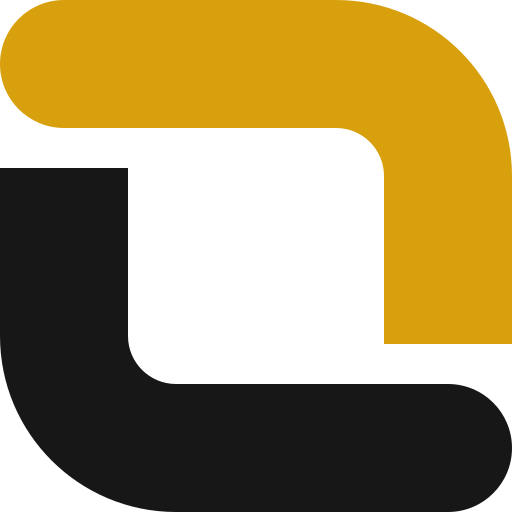
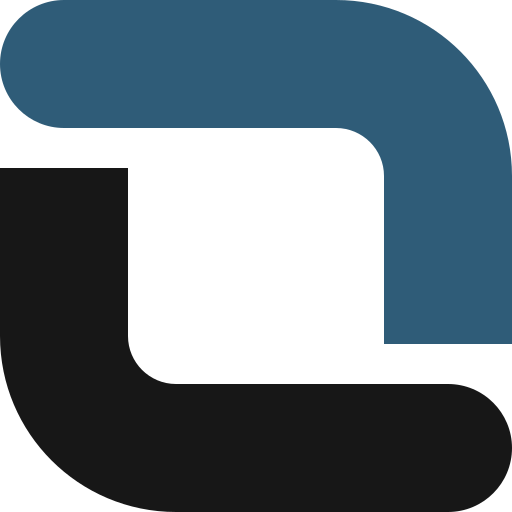
Move brand/ to the blue mark the dashboard uses
The dashboard went blue in ba6aa2aa, but brand/ kept the gold, so anything drawn from it (the mobile app's icon, for one) came out brown. The source now uses #2F5C78 on light backgrounds and #5AAEE5 on dark, and everything in logo/, icon/ and png/ is rebuilt from it. Only the colors move. With them masked out every SVG path is the same as before, and the one-color and name-only files don't change at all.

The logos, favicon.svg, icon-192, icon-512 and apple-touch-icon now match apps/dashboard byte for byte. favicon.ico is still the bare mark, now blue, where the dashboard's sits on a dark tile.

preview.png puts the white one-color logo on the blue card, since ink on #2F5C78 is hard to read, and the README's color table and wording follow. It also says to rebuild with Geist 1.7.2. Other versions outline the name a little differently, and you'd get a diff in every file with the name in it.

Checked by building the old gold source with Geist 1.7.2 first, which reproduces every committed file exactly, then rebuilding with blue.

diff --git a/brand/source/preview.py b/brand/source/preview.py
@@ -10,7 +10,7 @@ from mark import mark_paths, f, ink_points, to_d, scale_cmds, rotate_half  # noq
 from wordmark import set_word  # noqa: E402
 
 W, H = 1600, 1180
-INK, PAPER, WELD, WELD_D = build.INK, build.PAPER, build.WELD, build.WELD_ON_DARK
+INK, PAPER, BLUE, BLUE_D = build.INK, build.PAPER, build.BLUE, build.BLUE_ON_DARK
 MUTED = "#737373"
 LINE = "#E5E5E5"
 
@@ -32,29 +32,30 @@ def main(out_dir):
 
     # Hero: the horizontal logo.
     parts.append(f'<rect x="40" y="40" width="{W - 80}" height="380" rx="20" fill="#FFFFFF" stroke="{LINE}"/>')
-    vb, body, _ = build.horizontal(INK, WELD, INK)
+    vb, body, _ = build.horizontal(INK, BLUE, INK)
     el, h = place(vb, body, 0, 0, 760)
     parts.append(el.replace('x="0" y="0"', f'x="{f((W - 760) / 2)}" y="{f(230 - h / 2)}"'))
     parts.append(label("Primary logo", 72, 392))
 
-    # Row two: dark, gold, stacked.
+    # Row two: dark, blue, stacked.
     y2, h2 = 450, 300
     cw = (W - 80 - 40) / 3
     xs = [40 + i * (cw + 20) for i in range(3)]
     parts.append(f'<rect x="{f(xs[0])}" y="{y2}" width="{f(cw)}" height="{h2}" rx="20" fill="#0A0A0A"/>')
-    vb, body, _ = build.horizontal(PAPER, WELD_D, PAPER)
+    vb, body, _ = build.horizontal(PAPER, BLUE_D, PAPER)
     el, h = place(vb, body, xs[0] + (cw - 380) / 2, y2 + h2 / 2 - 30, 380)
     parts.append(el)
     parts.append(label("On dark", xs[0] + 32, y2 + h2 - 28, fill="#A3A3A3"))
 
-    parts.append(f'<rect x="{f(xs[1])}" y="{y2}" width="{f(cw)}" height="{h2}" rx="20" fill="{WELD}"/>')
-    vb, body, _ = build.horizontal(INK, INK, INK)
+    parts.append(f'<rect x="{f(xs[1])}" y="{y2}" width="{f(cw)}" height="{h2}" rx="20" fill="{BLUE}"/>')
+    # Ink on this blue is too dark to read, so the one-color logo is white.
+    vb, body, _ = build.horizontal(PAPER, PAPER, PAPER)
     el, h = place(vb, body, xs[1] + (cw - 380) / 2, y2 + h2 / 2 - 30, 380)
     parts.append(el)
-    parts.append(label("One color", xs[1] + 32, y2 + h2 - 28, fill=INK))
+    parts.append(label("One color", xs[1] + 32, y2 + h2 - 28, fill=PAPER))
 
     parts.append(f'<rect x="{f(xs[2])}" y="{y2}" width="{f(cw)}" height="{h2}" rx="20" fill="#FFFFFF" stroke="{LINE}"/>')
-    vb, body, _ = build.stacked(INK, WELD, INK)
+    vb, body, _ = build.stacked(INK, BLUE, INK)
     el, h = place(vb, body, xs[2] + (cw - 230) / 2, y2 + 46, 230)
     parts.append(el)
     parts.append(label("Stacked", xs[2] + 32, y2 + h2 - 28))
@@ -63,24 +64,24 @@ def main(out_dir):
     y3, h3 = 780, 360
     parts.append(f'<rect x="40" y="{y3}" width="{W - 80}" height="{h3}" rx="20" fill="#FAFAFA" stroke="{LINE}"/>')
 
-    # Construction: ink L + gold L = the mark.
+    # Construction: ink L + blue L = the mark.
     spec = build.PRIMARY
     s = 2.7
     side = spec.size * s
     cy0 = y3 + 70
     ink = ink_points(spec)
-    gold = rotate_half(ink, spec)
+    blue = rotate_half(ink, spec)
     x = 72
     parts.append(f'<path fill="{INK}" d="{to_d(scale_cmds(ink, s, x, cy0))}"/>')
     x += side + 22
     parts.append(label("+", x, cy0 + side / 2 + 10, size=30, fill=MUTED))
     x += 42
-    parts.append(f'<path fill="{WELD}" d="{to_d(scale_cmds(gold, s, x, cy0))}"/>')
+    parts.append(f'<path fill="{BLUE}" d="{to_d(scale_cmds(blue, s, x, cy0))}"/>')
     x += side + 22
     parts.append(label("=", x, cy0 + side / 2 + 10, size=30, fill=MUTED))
     x += 42
-    ink_d, gold_d = mark_paths(spec, s, x, cy0)
-    parts.append(f'<path fill="{INK}" d="{ink_d}"/><path fill="{WELD}" d="{gold_d}"/>')
+    ink_d, blue_d = mark_paths(spec, s, x, cy0)
+    parts.append(f'<path fill="{INK}" d="{ink_d}"/><path fill="{BLUE}" d="{blue_d}"/>')
     parts.append(label("Two L threads, each tucked under the other", 72, y3 + h3 - 32))
 
     # Sizes.
@@ -88,8 +89,8 @@ def main(out_dir):
     x = sx
     for size in (96, 64, 40, 24, 16):
         spec_used = build.PRIMARY if size >= 24 else build.SMALL
-        ink_d, gold_d = mark_paths(spec_used, size / 32, x, y3 + 70 + (96 - size))
-        parts.append(f'<path fill="{INK}" d="{ink_d}"/><path fill="{WELD}" d="{gold_d}"/>')
+        ink_d, blue_d = mark_paths(spec_used, size / 32, x, y3 + 70 + (96 - size))
+        parts.append(f'<path fill="{INK}" d="{ink_d}"/><path fill="{BLUE}" d="{blue_d}"/>')
         parts.append(label(f"{size}", x, y3 + 200, size=13))
         x += size + 28
     parts.append(label("Mark sizes", sx, y3 + h3 - 32))
@@ -98,16 +99,16 @@ def main(out_dir):
     ax = 960
     side = 150
     parts.append(f'<rect x="{ax}" y="{y3 + 60}" width="{side}" height="{side}" rx="{f(side * 0.225)}" fill="{INK}"/>')
-    ink_d, gold_d = mark_paths(spec, side * 0.54 / 32, ax + side * 0.23, y3 + 60 + side * 0.23)
-    parts.append(f'<path fill="{PAPER}" d="{ink_d}"/><path fill="{WELD_D}" d="{gold_d}"/>')
+    ink_d, blue_d = mark_paths(spec, side * 0.54 / 32, ax + side * 0.23, y3 + 60 + side * 0.23)
+    parts.append(f'<path fill="{PAPER}" d="{ink_d}"/><path fill="{BLUE_D}" d="{blue_d}"/>')
     parts.append(label("App icon", ax, y3 + h3 - 32))
 
     # Colors.
     px = 1160
     swatches = [
         ("Ink", INK, "#171717", PAPER),
-        ("Weld", WELD, "#D8A00D", INK),
-        ("Weld on dark", WELD_D, "#E3AE3B", INK),
+        ("Blue", BLUE, "#2F5C78", PAPER),
+        ("Blue on dark", BLUE_D, "#5AAEE5", INK),
         ("Paper", PAPER, "#FAFAFA", INK),
     ]
     for i, (name, color, hexv, fg) in enumerate(swatches):

diff --git a/brand/source/build.py b/brand/source/build.py
@@ -16,8 +16,8 @@ from PIL import Image  # noqa: E402
 
 INK = "#171717"
 PAPER = "#FAFAFA"
-WELD = "#D8A00D"
-WELD_ON_DARK = "#E3AE3B"
+BLUE = "#2F5C78"
+BLUE_ON_DARK = "#5AAEE5"
 
 PRIMARY = MarkSpec(size=32, w=8, radius=11, gap=2.5)
 # Below about 24px the gaps close up, so small sizes get heavier threads and
@@ -30,8 +30,8 @@ FONT_SIZE = 100.0
 TRACKING = -10  # font units, a touch tighter than Geist's default
 
 PALETTES = {
-    "": (INK, WELD, INK),  # (ink thread, gold thread, wordmark)
-    "-dark": (PAPER, WELD_ON_DARK, PAPER),
+    "": (INK, BLUE, INK),  # (ink thread, blue thread, wordmark)
+    "-dark": (PAPER, BLUE_ON_DARK, PAPER),
     "-black": (INK, INK, INK),
     "-white": (PAPER, PAPER, PAPER),
 }
@@ -44,9 +44,9 @@ def svg(view_box, body, title="Loomplane"):
     )
 
 
-def mark_body(spec, ink, gold, scale=1.0, ox=0.0, oy=0.0):
-    ink_d, gold_d = mark_paths(spec, scale, ox, oy)
-    return f'<path fill="{ink}" d="{ink_d}"/><path fill="{gold}" d="{gold_d}"/>'
+def mark_body(spec, ink, blue, scale=1.0, ox=0.0, oy=0.0):
+    ink_d, blue_d = mark_paths(spec, scale, ox, oy)
+    return f'<path fill="{ink}" d="{ink_d}"/><path fill="{blue}" d="{blue_d}"/>'
 
 
 def word():
@@ -55,7 +55,7 @@ def word():
     return d, m["ink_left"], right, top, bottom
 
 
-def horizontal(ink, gold, text):
+def horizontal(ink, blue, text):
     d, left, right, top, bottom = word()
     l_height = -top  # the l's ascender sets the word's optical height
     mark_h = l_height * 1.2
@@ -63,7 +63,7 @@ def horizontal(ink, gold, text):
     centre = top / 2
     mark_top = centre - mark_h / 2
     s = mark_h / PRIMARY.size
-    body = mark_body(PRIMARY, ink, gold, s, 0, mark_top)
+    body = mark_body(PRIMARY, ink, blue, s, 0, mark_top)
     tx = mark_h + gap - left
     body += f'<path fill="{text}" transform="translate({f(tx)} 0)" d="{d}"/>'
     y0 = min(mark_top, top)
@@ -72,14 +72,14 @@ def horizontal(ink, gold, text):
     return f"0 {f(y0)} {f(w)} {f(y1 - y0)}", body, (w, y1 - y0)
 
 
-def stacked(ink, gold, text):
+def stacked(ink, blue, text):
     d, left, right, top, bottom = word()
     word_w = right - left
     mark_h = word_w * 0.3
     gap = mark_h * 0.3
     s = mark_h / PRIMARY.size
     mx = (word_w - mark_h) / 2
-    body = mark_body(PRIMARY, ink, gold, s, mx, 0)
+    body = mark_body(PRIMARY, ink, blue, s, mx, 0)
     ty = mark_h + gap - top
     body += f'<path fill="{text}" transform="translate({f(-left)} {f(ty)})" d="{d}"/>'
     h = ty + bottom
@@ -93,12 +93,12 @@ def wordmark(text):
 
 
 def favicon_svg():
-    ink_d, gold_d = mark_paths(SMALL)
+    ink_d, blue_d = mark_paths(SMALL)
     style = (
-        f"<style>.i{{fill:{INK}}}.g{{fill:{WELD}}}"
-        f"@media (prefers-color-scheme:dark){{.i{{fill:{PAPER}}}.g{{fill:{WELD_ON_DARK}}}}}</style>"
+        f"<style>.i{{fill:{INK}}}.g{{fill:{BLUE}}}"
+        f"@media (prefers-color-scheme:dark){{.i{{fill:{PAPER}}}.g{{fill:{BLUE_ON_DARK}}}}}</style>"
     )
-    body = f'{style}<path class="i" d="{ink_d}"/><path class="g" d="{gold_d}"/>'
+    body = f'{style}<path class="i" d="{ink_d}"/><path class="g" d="{blue_d}"/>'
     return svg("0 0 32 32", body)
 
 
@@ -109,7 +109,7 @@ def app_icon_svg(rounded=True):
     o = (side - mark) / 2
     rx = f' rx="{f(side * 0.225)}"' if rounded else ""
     body = f'<rect width="{f(side)}" height="{f(side)}"{rx} fill="{INK}"/>'
-    body += mark_body(PRIMARY, PAPER, WELD_ON_DARK, s, o, o)
+    body += mark_body(PRIMARY, PAPER, BLUE_ON_DARK, s, o, o)
     return svg(f"0 0 {f(side)} {f(side)}", body)
 
 
@@ -129,14 +129,14 @@ def main(out):
     for p in (logo, icon, png):
         p.mkdir(parents=True, exist_ok=True)
 
-    for suffix, (ink, gold, text) in PALETTES.items():
-        vb, body = f"0 0 {f(PRIMARY.size)} {f(PRIMARY.size)}", mark_body(PRIMARY, ink, gold)
+    for suffix, (ink, blue, text) in PALETTES.items():
+        vb, body = f"0 0 {f(PRIMARY.size)} {f(PRIMARY.size)}", mark_body(PRIMARY, ink, blue)
         (logo / f"loomplane-mark{suffix}.svg").write_text(svg(vb, body))
-        vb, body, _ = horizontal(ink, gold, text)
+        vb, body, _ = horizontal(ink, blue, text)
         (logo / f"loomplane-logo{suffix}.svg").write_text(svg(vb, body))
-        vb, body, _ = stacked(ink, gold, text)
+        vb, body, _ = stacked(ink, blue, text)
         (logo / f"loomplane-logo-stacked{suffix}.svg").write_text(svg(vb, body))
-        if suffix in ("", "-dark"):  # the wordmark has no gold, so two cover it
+        if suffix in ("", "-dark"):  # the wordmark has no blue, so two cover it
             vb, body = wordmark(text)
             (logo / f"loomplane-wordmark{suffix}.svg").write_text(svg(vb, body))
 

diff --git a/brand/source/mark.py b/brand/source/mark.py
@@ -1,7 +1,7 @@
 """The Loomplane mark as plain filled paths.
 
 Two L-shaped threads make a square. The ink thread is an L (left side and
-bottom); the gold thread is the same L turned half a revolution (top and right).
+bottom); the blue thread is the same L turned half a revolution (top and right).
 Each one tucks under the other at one corner, so the square reads as woven from
 two threads.
 """
@@ -96,7 +96,7 @@ def to_d(cmds):
 
 
 def mark_paths(m: MarkSpec, scale=1.0, ox=0.0, oy=0.0):
-    """Returns (ink_d, gold_d) for the mark scaled and placed at (ox, oy)."""
+    """Returns (ink_d, blue_d) for the mark scaled and placed at (ox, oy)."""
     ink = ink_points(m)
-    gold = rotate_half(ink, m)
-    return to_d(scale_cmds(ink, scale, ox, oy)), to_d(scale_cmds(gold, scale, ox, oy))
+    blue = rotate_half(ink, m)
+    return to_d(scale_cmds(ink, scale, ox, oy)), to_d(scale_cmds(blue, scale, ox, oy))

diff --git a/brand/README.md b/brand/README.md
@@ -2,7 +2,7 @@
 
 ![The Loomplane logo, its variants, sizes and colors](preview.png)
 
-The mark is two threads woven into a square. The dark one is an L. The gold one is the same L turned around, and each tucks under the other at one corner. It's the weave from the dashboard (warp, weft and weld gold) cut down to two threads, so the logo and the product look like they came from the same place.
+The mark is two threads woven into a square. The dark one is an L. The blue one is the same L turned around, and each tucks under the other at one corner. It's the weave from the dashboard cut down to two threads and dyed its ocean blue, so the logo and the product look like they came from the same place.
 
 ## Which file to use
 
@@ -15,7 +15,7 @@ Everything in `logo/` is SVG with the name already outlined, so you don't need G
 | The mark alone | `logo/loomplane-mark.svg` | `logo/loomplane-mark-dark.svg` |
 | The name alone | `logo/loomplane-wordmark.svg` | `logo/loomplane-wordmark-dark.svg` |
 
-If you can only print one color, or the logo sits on a photo or on the gold itself, use the `-black` and `-white` files. The weave still reads in one color, because the gaps show where one thread passes under the other.
+If you can only print one color, or the logo sits on a photo or on the blue itself, use the `-black` and `-white` files. The weave still reads in one color, because the gaps show where one thread passes under the other.
 
 For browsers and devices, `icon/` has:
 
@@ -32,11 +32,11 @@ The favicon is drawn heavier than the mark, with thicker threads and wider gaps.
 | Name | Hex | Used for |
 |---|---|---|
 | Ink | `#171717` | The L thread and the name on light backgrounds |
-| Weld | `#D8A00D` | The gold thread on light backgrounds |
-| Weld on dark | `#E3AE3B` | The gold thread on dark backgrounds |
+| Blue | `#2F5C78` | The blue thread on light backgrounds |
+| Blue on dark | `#5AAEE5` | The blue thread on dark backgrounds, and in the app icon |
 | Paper | `#FAFAFA` | The L thread and the name on dark backgrounds |
 
-These are the dashboard's own tokens. Ink is the theme's `--primary`, and the two golds are `--weld` from the light and dark themes in `apps/dashboard/src/index.css`. If you change the theme, change them here too.
+These match the dashboard. Ink is the theme's `--primary`, and Blue is `--brand` for the ocean accent in `apps/dashboard/src/index.css`. Blue on dark has no token of its own: it's the lighter blue in `apps/dashboard/public/favicon.svg` and the dark logo in `apps/dashboard/src/assets/brand/`. If you change any of them there, change them here too.
 
 ## Space and size
 
@@ -46,7 +46,7 @@ Below about 120 pixels wide you can't read the name anymore, so use the mark on 
 
 ## Don't
 
-- Recolor the threads, or swap which one is gold.
+- Recolor the threads, or swap which one is blue.
 - Rotate or mirror the mark. Mirrored, the L isn't an L anymore.
 - Add shadows, outlines or gradients.
 - Retype the name, even in Geist. The outlined name is set tighter than Geist's default spacing, so a retyped one won't match.
@@ -56,7 +56,7 @@ Below about 120 pixels wide you can't read the name anymore, so use the mark on 
 
 Every file here comes from `source/`. The geometry is four numbers at the top of `source/build.py`: the square is 32 units, the threads are 8 wide, the outer corner radius is 11, and the gap where one thread passes under the other is 2.5. The favicon uses 9, 12 and 3.
 
-You'll need Python 3 with fontTools and Pillow, `rsvg-convert` (`brew install librsvg`), and Geist's static TTFs from [vercel/geist-font](https://github.com/vercel/geist-font):
+You'll need Python 3 with fontTools and Pillow, `rsvg-convert` (`brew install librsvg`), and Geist's static TTFs from [vercel/geist-font](https://github.com/vercel/geist-font). Use Geist 1.7.2 (the `geist` npm package ships the TTFs in `dist/fonts/geist-sans`). Other versions outline the name slightly differently, and every file with the name in it changes even when you only meant to touch a color.
 
 ```bash
 pip install fonttools pillow
